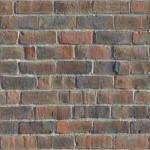
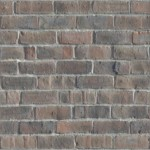
I've got the wall an floor options to a minimum viable level.

diff --git a/src/app/QuickArtworkMaker/quickRoomEditor/presets/RoomPresets.js b/src/app/QuickArtworkMaker/quickRoomEditor/presets/RoomPresets.js
@@ -11,10 +11,6 @@ const wallPresets = {
             presetName: 'brick-0',
             fileName: 'brickwall.png'
         },
-        brick1: {
-            presetName: 'brick-1',
-            fileName: 'Brick-1.jpg'
-        },
         brick2: {
             presetName: 'brick-2',
             fileName: 'Brick-2.jpg'
@@ -31,10 +27,6 @@ const wallPresets = {
             presetName: 'brick-5',
             fileName: 'Brick-5.jpg'
         },
-        brick6: {
-            presetName: 'brick-6',
-            fileName: 'Brick-6.jpg'
-        },
         brick7: {
             presetName: 'brick-7',
             fileName: 'Brick-7.jpg'
@@ -47,17 +39,9 @@ const wallPresets = {
             presetName: 'brick-9',
             fileName: 'Brick-9.jpg'
         },
-        brick10: {
-            presetName: 'brick-10',
-            fileName: 'Brick-10.jpg'
-        },
         brick11: {
             presetName: 'brick-11',
             fileName: 'Brick-11.jpg'
-        },
-        brick12: {
-            presetName: 'brick-12',
-            fileName: 'Brick-12.jpg'
         },
         brick13: {
             presetName: 'brick-13',
@@ -79,10 +63,6 @@ const wallPresets = {
             presetName: 'brick-17',
             fileName: 'Brick-17.jpg'
         },
-        brick18: {
-            presetName: 'brick-18',
-            fileName: 'Brick-18.jpg'
-        },
         concrete1: {
             presetName: 'Concrete-1',
             fileName: 'Concrete-1.jpg'
@@ -94,18 +74,6 @@ const wallPresets = {
         concrete3: {
             presetName: 'Concrete-3',
             fileName: 'Concrete-3.jpg'
-        },
-        concrete4: {
-            presetName: 'Concrete-4',
-            fileName: 'Concrete-4.jpg'
-        },
-        concrete5: {
-            presetName: 'Concrete-5',
-            fileName: 'Concrete-5.jpg'
-        },
-        concrete6: {
-            presetName: 'Concrete-6',
-            fileName: 'Concrete-6.jpg'
         },
         concrete7: {
             presetName: 'Concrete-7',
@@ -126,20 +94,22 @@ const floorPresets = {
             presetName: 'wood-1',
             fileName: 'floor-boards.png'
         },
-        wood2: {
-            presetName: 'wood-2',
-            fileName: 'dark_wood.png'
-        }
+        wood3: {
+            presetName: 'wood-3',
+            fileName: 'Wood-6.jpg'
+        },
     }
 };
 
 class RoomPresets extends Component {
 
     onWallSwatchClick(presetKey, tileUrl) {
+        // console.log("WALL: ", presetKey);
         this.props.onWallSwatchSelected(tileUrl);
     }
 
     onFloorSwatchClick(presetKey, tileUrl) {
+        // console.log("FLOOR: ", presetKey);
         this.props.onFloorSwatchSelected(tileUrl);
     }
 
@@ -170,13 +140,6 @@ class RoomPresets extends Component {
                     }
                 </div>
 
-                <div className={'skirtingControlHolder'}>
-                    <CheckBox label={'Include Skirting'}
-                              id={'include-skirting'}
-                              value={this.props.includeSkirting}
-                              onChange={(e) => this.onIncludeSkirtingChange(e.target.checked)}
-                    />
-                </div>
 
                 <h2>Floor:</h2>
                 <div className={'wallPresets'}>
@@ -192,6 +155,13 @@ class RoomPresets extends Component {
                         )
                     })
                     }
+                </div>
+                <div className={'skirtingControlHolder'}>
+                    <CheckBox label={'Skirting'}
+                              id={'include-skirting'}
+                              value={this.props.includeSkirting}
+                              onChange={(e) => this.onIncludeSkirtingChange(e.target.checked)}
+                    />
                 </div>
             </div>
         )

diff --git a/src/app/QuickArtworkMaker/quickRoomEditor/QuickRoomEditor.js b/src/app/QuickArtworkMaker/quickRoomEditor/QuickRoomEditor.js
@@ -89,7 +89,7 @@ class QuickRoomEditor extends Component {
                 <div className={'toolControlPanel'}>
                     <div className={'toolControlPanel--content'}>
 
-                        <div className={'toolControlPanel--options'}>
+                       {/* <div className={'toolControlPanel--options'}>
                             <ControlPanelButt onClick={this.onPresetsSelected}
                                               isSelected={currentTool === 'presets'}
                                               icon={faThReg}
@@ -107,7 +107,7 @@ class QuickRoomEditor extends Component {
                                               icon={faSquare}
                                               style={{ margin: 0 }}
                                               label={'FLOOR'}/>
-                        </div>
+                        </div>*/}
 
                         <div className={'toolControlPanel--currentOptionContent'}>
                             {currentTool === 'presets' &&

diff --git a/src/app/QuickArtworkMaker/quickArtwork/QuickArtwork.js b/src/app/QuickArtworkMaker/quickArtwork/QuickArtwork.js
@@ -478,15 +478,25 @@ const drawSkirtingBoard = (ctx, startX, startY, width, height) => {
 
 const drawFloor = (ctx, floorTile, startX, startY, width, height) => {
     const pat = ctx.createPattern(floorTile, "repeat");
+
+    /*ctx.beginPath();
+    ctx.rect(startX, startY, width, height);
+    ctx.fillStyle = '#5c7bd9';
+    ctx.fill();
+    ctx.closePath();*/
+
+    ctx.save();
     ctx.beginPath();
     ctx.rect(startX, startY, width, height);
     ctx.fillStyle = pat;
     ctx.fill();
     ctx.closePath();
+    ctx.restore();
 };
 
 const drawWall = (ctx, wallTile, startX, startY, width, height) => {
     const pat = ctx.createPattern(wallTile, "repeat");
+
     ctx.beginPath();
     ctx.rect(startX, startY, width, height);
     ctx.fillStyle = pat;

diff --git a/src/app/QuickArtworkMaker/DefaultArtworkDataGenerator.js b/src/app/QuickArtworkMaker/DefaultArtworkDataGenerator.js
@@ -28,7 +28,7 @@ export default function(){
     const defaultTitlesData = {title, artist, description, date};
 
     // ROOM
-    const wallTileUrl = '/images/tiles-wall/Brick-4.jpg';
+    const wallTileUrl = '/images/tiles-wall/brickwall.png';
     const floorTileUrl = '/images/tiles-floor/floor-boards.png';
     const defaultRoomData = {wallTileUrl, floorTileUrl, includeSkirting:true};
 

diff --git a/src/app/QuickArtworkMaker/quickRoomEditor/presets/presetsControl_styles.css b/src/app/QuickArtworkMaker/quickRoomEditor/presets/presetsControl_styles.css
@@ -38,8 +38,8 @@
 
 .toolControlPanel--currentOptionContent {
     flex: 1;
-    margin: 55px 0;
-    padding: 10px;
+    margin: 0 0 55px 0;
+    padding: 0 10px 10px 10px;
 }
 
 .toolControlPanel--currentOptionContent h2{
